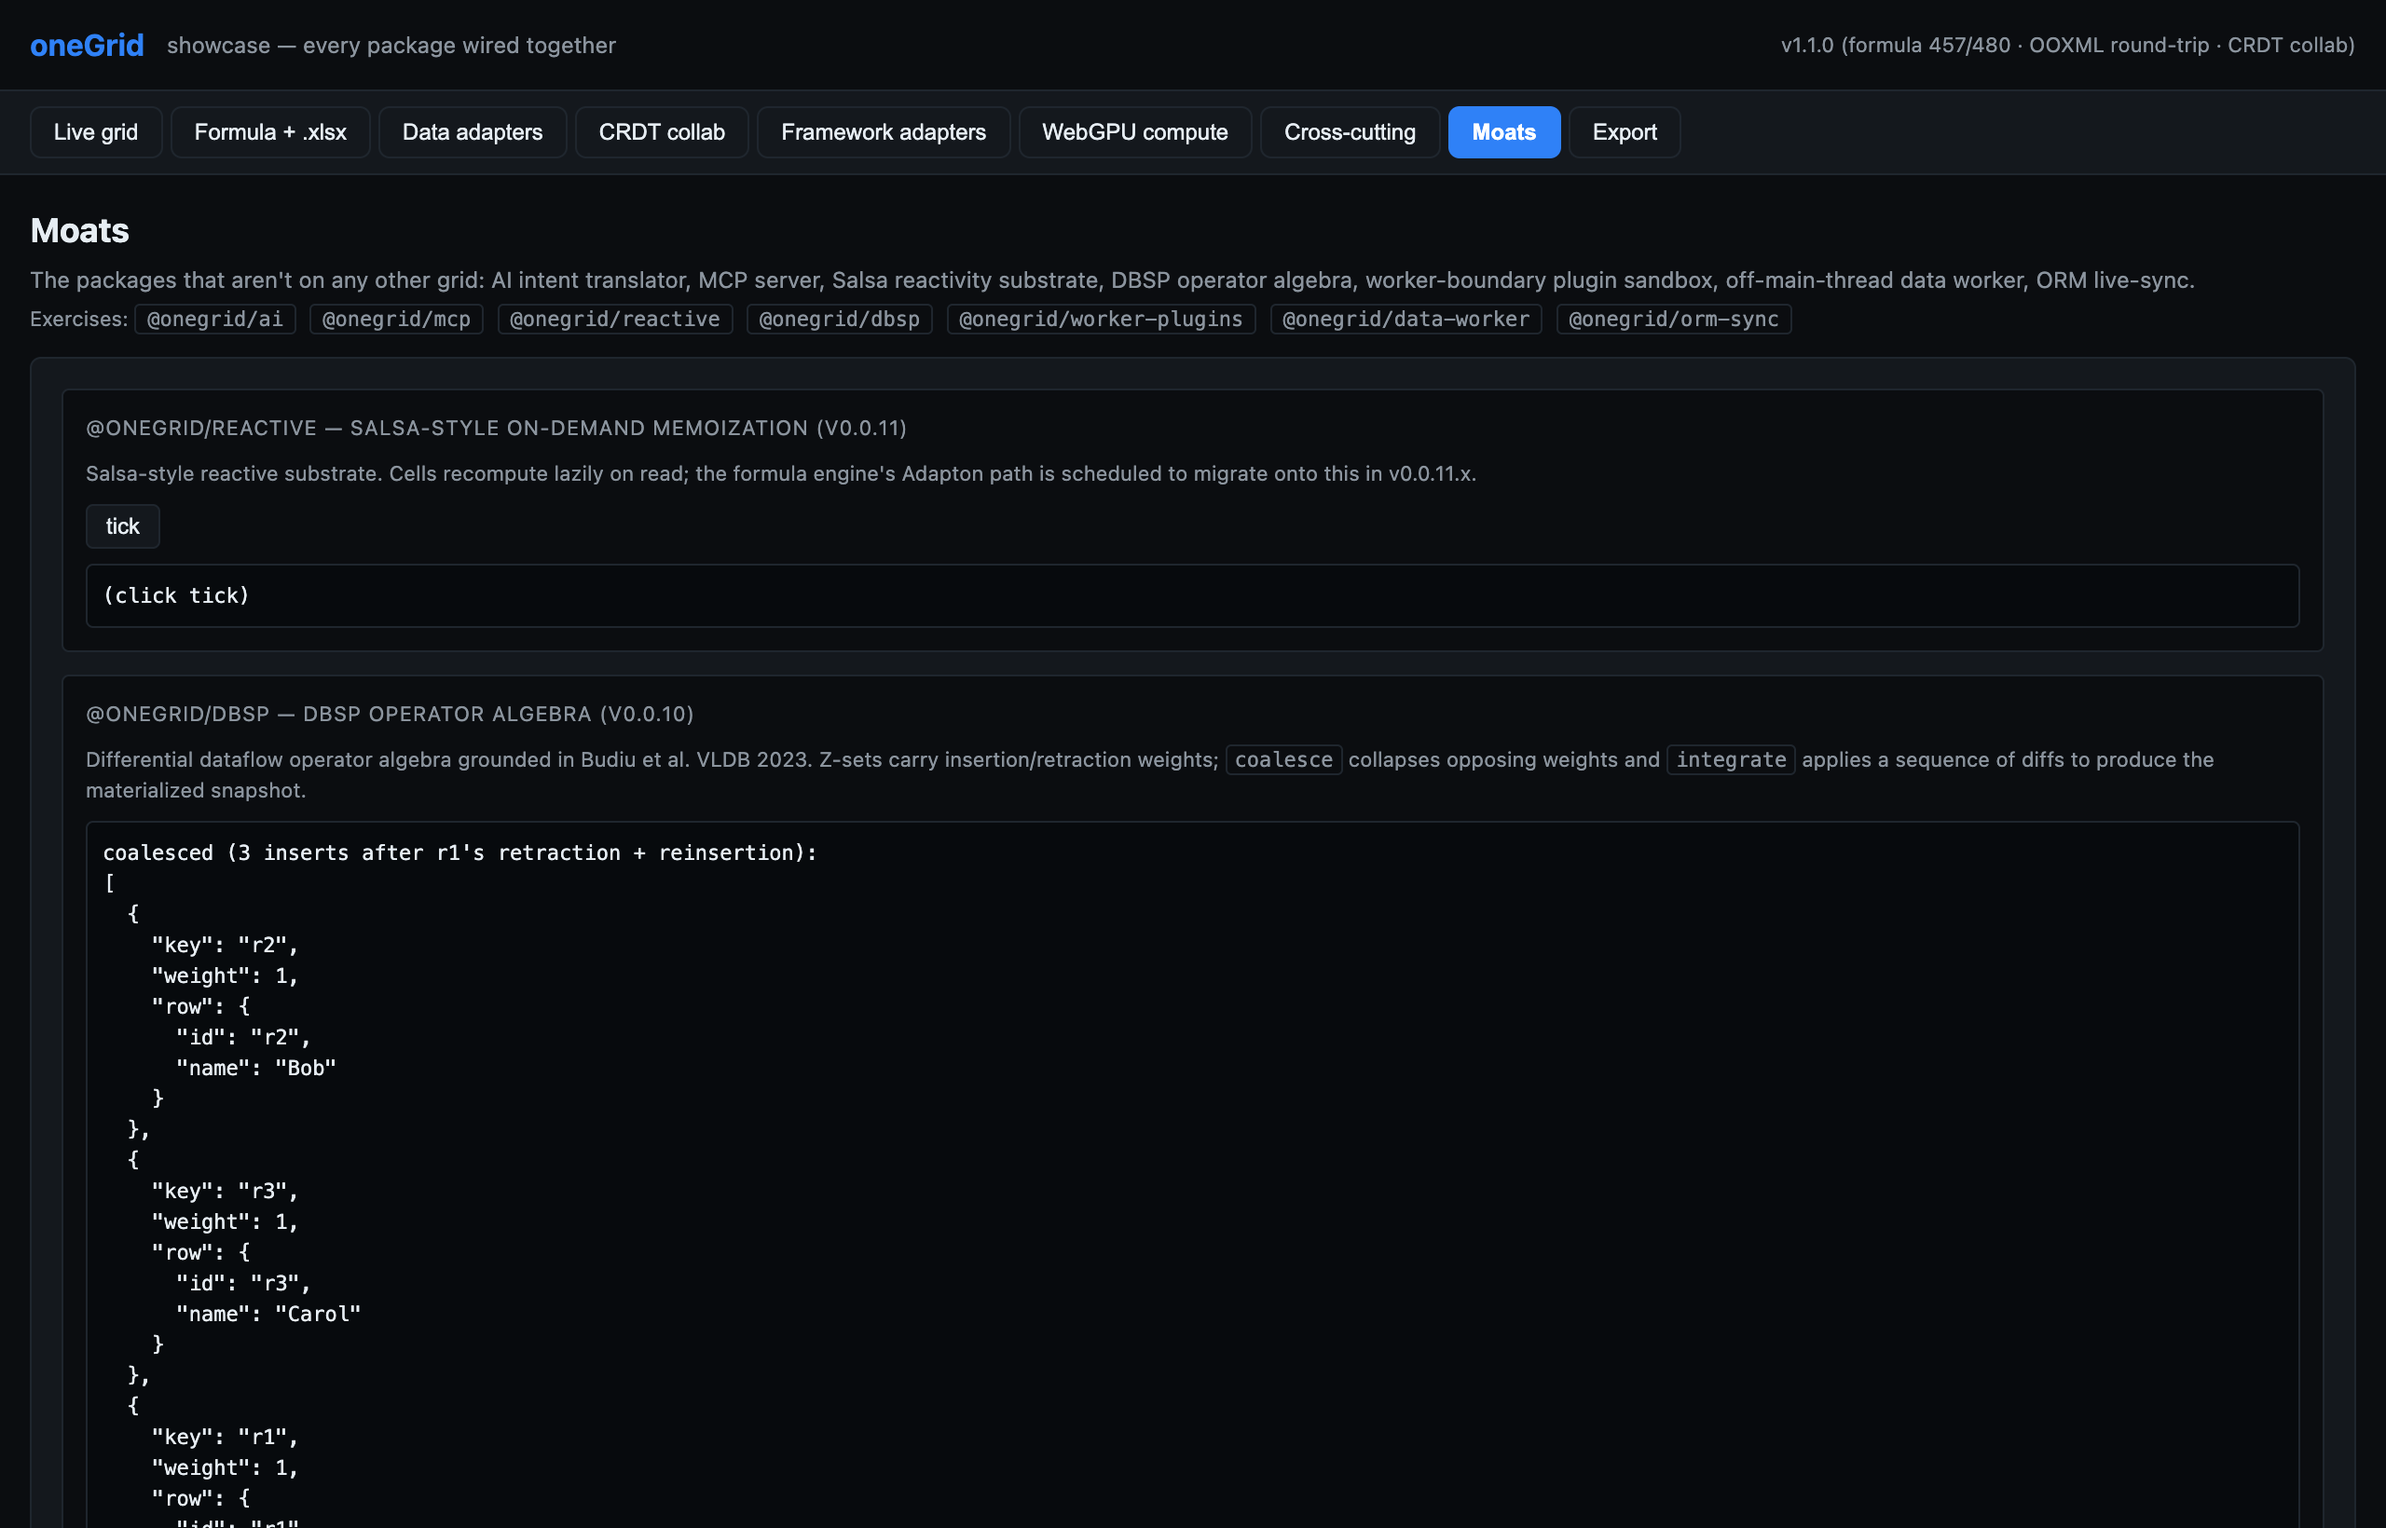
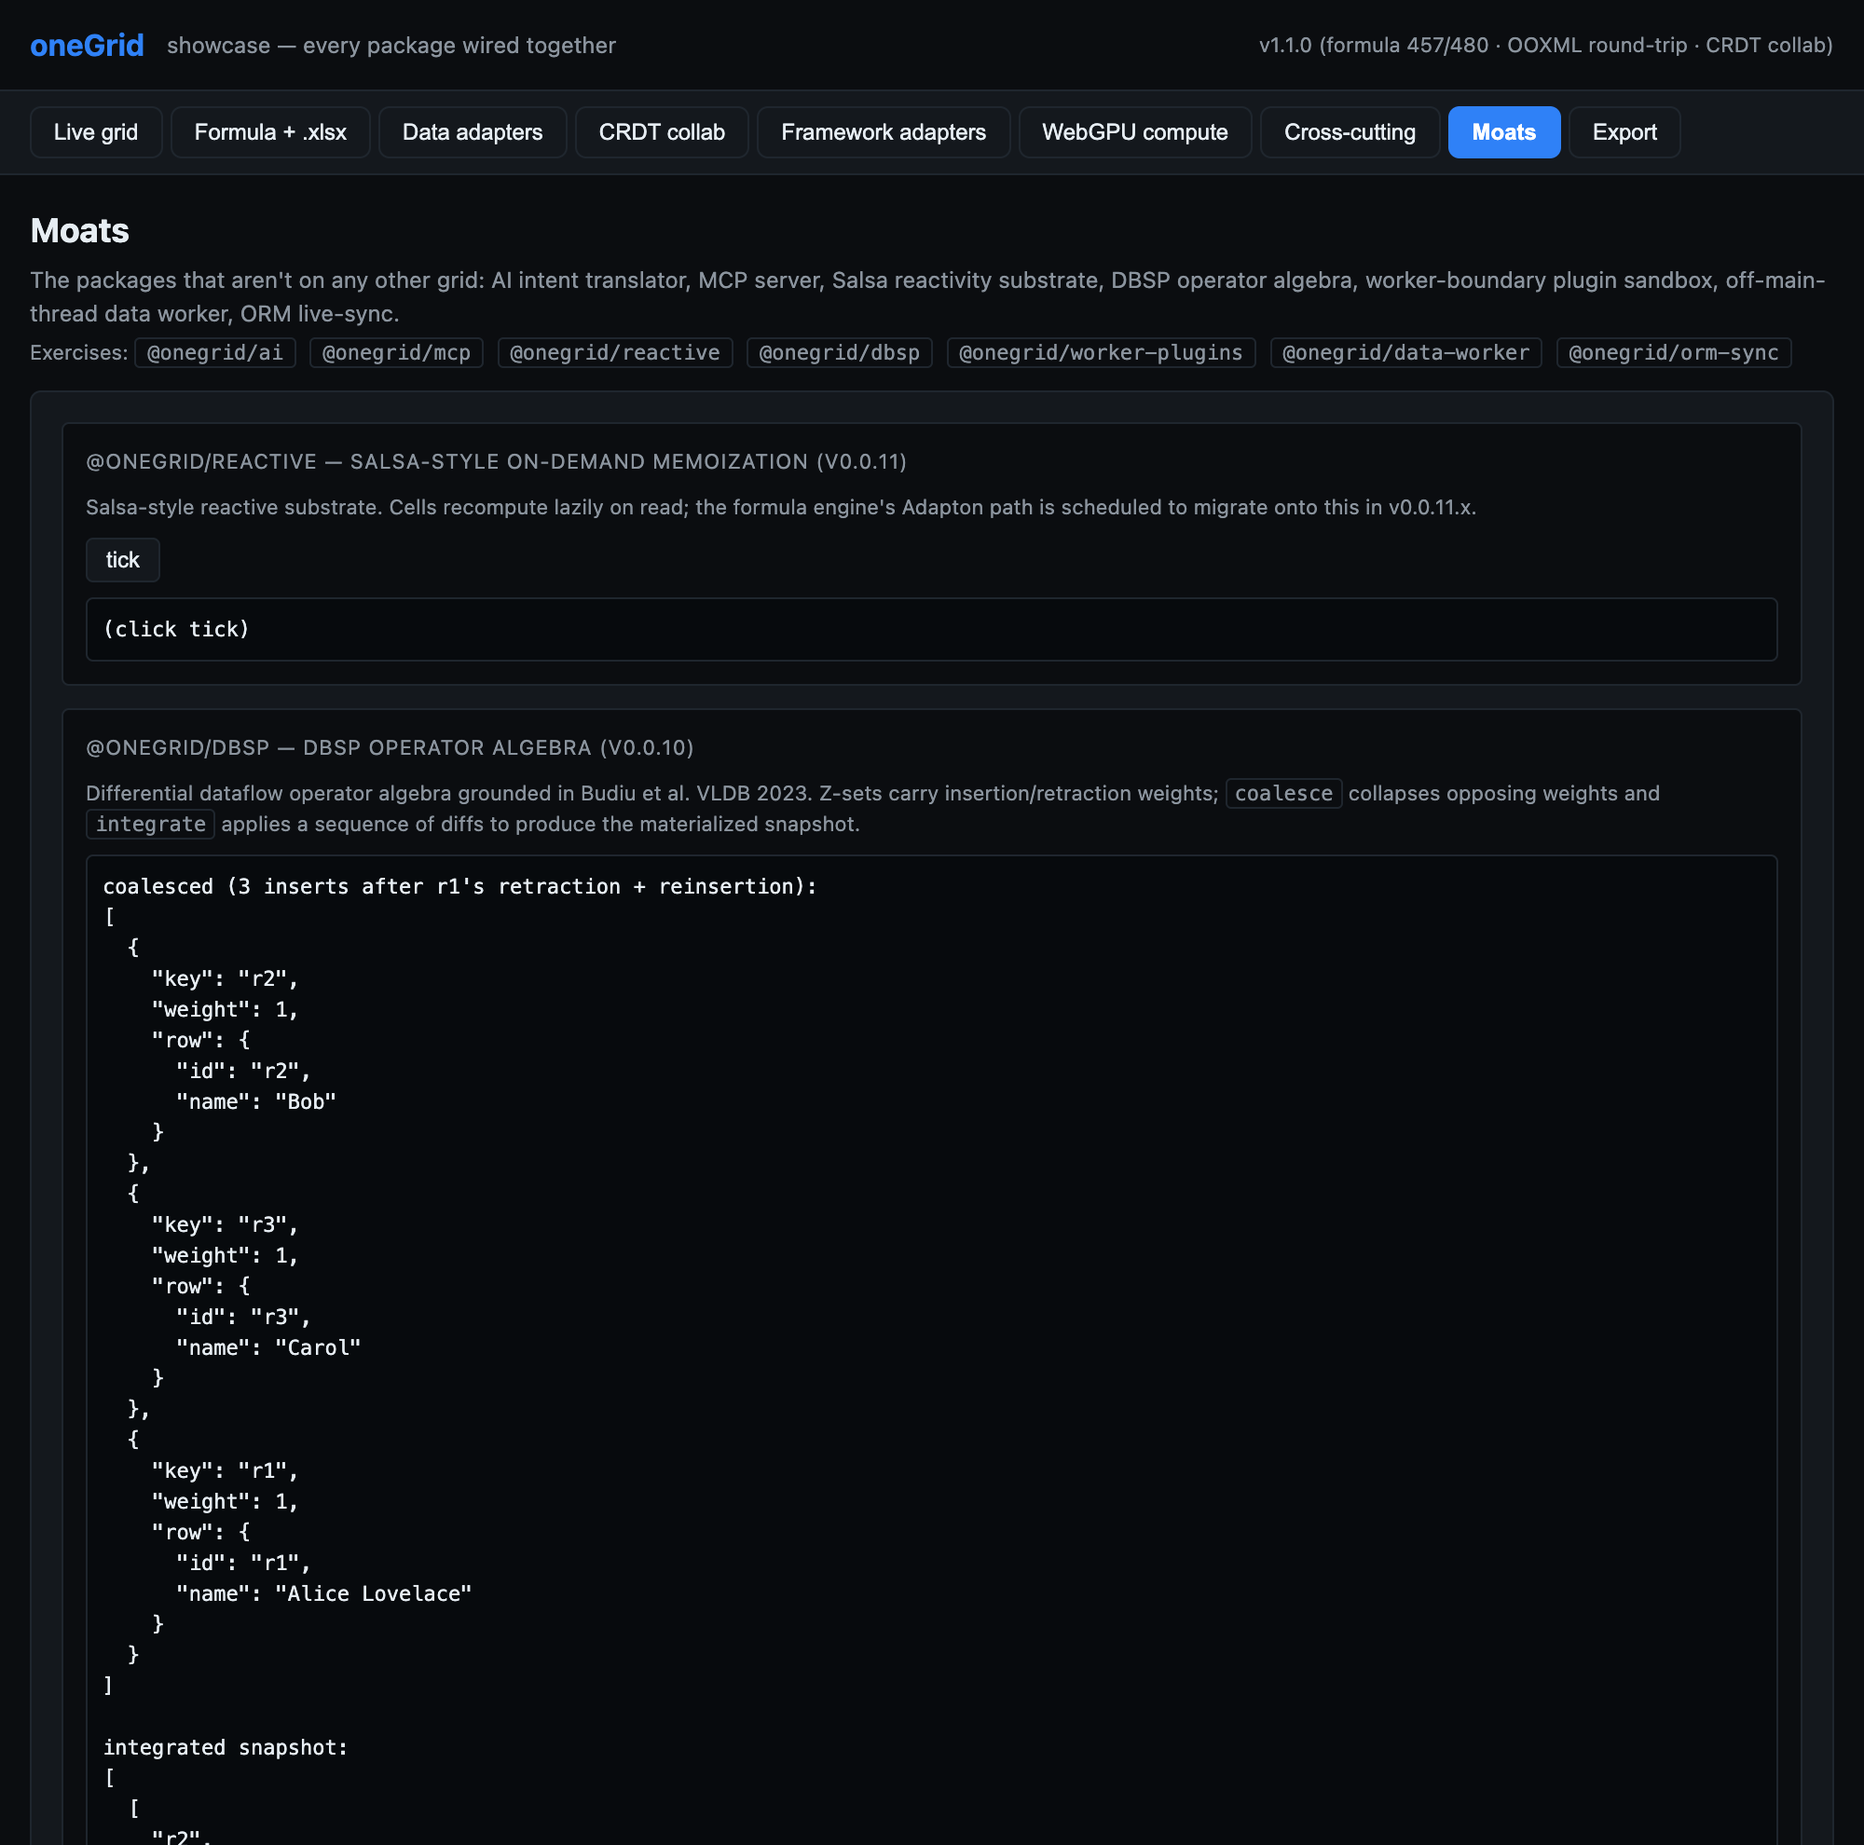
feat(showcase): host configs for Vercel + Netlify + Cloudflare; fix SheetJS bleed
Ships deploy targets so apps/showcase can flip from "exists locally" to
"hosted at a URL anyone can hit." Three host configs included; pick one
or all three. All set immutable cache on /assets/* and the same
baseline security headers.

Bundle hygiene:
- vite.config.ts marks `xlsx` (the SheetJS optional peer dep that comes
  in via @onegrid/export's non-clean-room fallback path) as `external`.
  Removes a 430KB JS chunk from the production build that the showcase
  never used — the Export tab uses @onegrid/xlsx's clean-room
  writeWorkbook, not SheetJS. If a hypothetical adopter ever hits the
  SheetJS path it throws at runtime, which is the right failure mode.
- Production build before: 2 chunks (index 2.7MB + xlsx 430KB).
- Production build after: 1 chunk (index 2.7MB / 722KB gz).

Bug fix surfaced by the production build:
- 07-moats.tsx referenced @onegrid/ai's `translateIntent` which doesn't
  exist (the real export is `interpretIntent` + `buildPrompt`). Vite's
  static analysis caught this where my earlier dev-mode `import * as ai`
  hid it. Rewrote the AI section to render the `buildPrompt` output —
  `interpretIntent` needs an adopter-supplied LlmClient so we can't
  exercise the full path from the showcase without a key.

ROADMAP: updated the 🔴 "Live demo URL" line to reflect that hosting
configs ship now; flips to 🟢 once a URL goes live.

Verified end-to-end in real Chrome against `vite preview` (production
[…]

diff --git a/apps/showcase/src/tabs/07-moats.tsx b/apps/showcase/src/tabs/07-moats.tsx
@@ -112,15 +112,25 @@ ${JSON.stringify(result.integrated, null, 2)}`}
 
 function AiSection(): JSX.Element {
   const [nl, setNl] = useState('show rows where status is active and revenue > 1000');
-  const result = useMemo(() => {
-    const translate = (ai as { translateIntent?: unknown }).translateIntent;
-    if (typeof translate !== 'function') {
-      return { error: 'translateIntent not in current build' };
+  const promptPreview = useMemo(() => {
+    if (typeof (ai as { buildPrompt?: unknown }).buildPrompt !== 'function') {
+      return '(buildPrompt not in current build)';
     }
     try {
-      return (translate as (s: string) => unknown)(nl);
+      const { buildPrompt } = ai as unknown as {
+        buildPrompt: (input: { instruction: string; columns: Array<{ id: string }>; rows?: ReadonlyArray<unknown> }) => string;
+      };
+      return buildPrompt({
+        instruction: nl,
+        columns: [
+          { id: 'id' },
+          { id: 'name' },
+          { id: 'status' },
+          { id: 'revenue' },
+        ],
+      });
     } catch (err) {
-      return { error: err instanceof Error ? err.message : String(err) };
+      return err instanceof Error ? err.message : String(err);
     }
   }, [nl]);
 
@@ -141,7 +151,13 @@ function AiSection(): JSX.Element {
           marginBottom: 8,
         }}
       />
-      <Output>{JSON.stringify(result, null, 2)}</Output>
+      <div style={{ fontSize: 11, color: 'var(--muted)', marginBottom: 8 }}>
+        <Mono>buildPrompt</Mono> assembles the LLM input; the live
+        interpretation step (<Mono>interpretIntent</Mono>) needs an
+        adopter-supplied <Mono>LlmClient</Mono>, so the showcase only
+        renders the prompt half.
+      </div>
+      <Output>{promptPreview}</Output>
     </Card>
   );
 }

diff --git a/apps/showcase/vite.config.ts b/apps/showcase/vite.config.ts
@@ -4,8 +4,24 @@ import react from '@vitejs/plugin-react';
 export default defineConfig({
   plugins: [react()],
   server: { port: 5174, strictPort: true },
-  build: { sourcemap: true },
+  build: {
+    sourcemap: true,
+    rollupOptions: {
+      // `@onegrid/export` has an optional peer dep on SheetJS (`xlsx`) for
+      // its non-clean-room fallback path. The showcase only ever uses the
+      // clean-room `@onegrid/xlsx` writer, so we keep SheetJS out of the
+      // bundle. If a tab ever hits the SheetJS path it will throw at
+      // runtime — that's a louder failure than silently shipping 430KB
+      // of dead code.
+      external: ['xlsx'],
+      output: {
+        // Provide a no-op resolution so the dynamic import doesn't blow
+        // up at module-graph time.
+        globals: { xlsx: 'undefined' },
+      },
+    },
+  },
   optimizeDeps: {
-    exclude: ['@duckdb/duckdb-wasm'],
+    exclude: ['@duckdb/duckdb-wasm', 'xlsx'],
   },
 });

diff --git a/apps/showcase/README.md b/apps/showcase/README.md
@@ -43,6 +43,18 @@ The grid in tab 1 receives:
 
 …and the formula bar evaluates against the same `RowSource` through a `CellResolver` that maps `A1` notation to grid cells. That's the entire integration story — small contracts (`ColumnDef`, `RowSource`, `CellResolver`, `BlockRequest`, `CdcAdapter`, `PresenceBridge`) compose without ceremony.
 
+## Deploy
+
+The showcase is a pure-static Vite build — `pnpm --filter @onegrid/showcase build` emits `apps/showcase/dist/` (single HTML + one JS chunk + sourcemap, ~2.7 MB / 720 KB gz) that any static host can serve. Three host configs ship with the package:
+
+- **Vercel** — [`apps/showcase/vercel.json`](./vercel.json). Point a Vercel project at the repo root, set the project root to `apps/showcase`. Vercel auto-detects Vite and runs the monorepo-aware `pnpm install` + filtered build from the config.
+- **Netlify** — [`apps/showcase/netlify.toml`](./netlify.toml). Point a Netlify site at `apps/showcase`. The `[build]` block runs the same workspace-filtered build.
+- **Cloudflare Pages** — [`apps/showcase/wrangler.toml`](./wrangler.toml). Configure the Pages project with build command `cd ../.. && pnpm --filter @onegrid/showcase build` and output `dist`.
+
+All three configs set the same `Cache-Control: max-age=31536000, immutable` on `/assets/*` (Vite emits content-hashed filenames) and the same baseline security headers (`X-Content-Type-Options`, `X-Frame-Options`, `Referrer-Policy`).
+
+**SheetJS exclusion.** `@onegrid/export` carries an optional peer dep on SheetJS (`xlsx`) for its non-clean-room fallback. The showcase only uses `@onegrid/xlsx`'s clean-room `writeWorkbook`, so `xlsx` is marked `external` in [`vite.config.ts`](./vite.config.ts) — it stays out of the bundle. If a hypothetical adopter ever hits the SheetJS path through `@onegrid/export`, the dynamic import throws a clear error rather than silently shipping 430 KB of dead code.
+
 ## What this app is NOT
 
 - **Not a production starter.** Routes / auth / state management / error boundaries are deliberately minimal.

diff --git a/ROADMAP.md b/ROADMAP.md
@@ -1003,7 +1003,7 @@ or external services. Each is a fix-it batch, not a feature milestone.
 **Distribution + reachability**
 - 🔴 **Publish to npm** — every dep is currently `workspace:*`;
   nothing on the registry. Blocks every external adopter.
-- 🔴 **Live demo URL** — `apps/playground` and the broader [`apps/showcase`](./apps/showcase) (every-package-wired-together demo, 2026-06-02 `0244521`) are local-only; no hosted preview yet.
+- 🔴 **Live demo URL** — `apps/playground` and the broader [`apps/showcase`](./apps/showcase) (every-package-wired-together demo, `0244521`) are local-only; no hosted preview yet. Vercel / Netlify / Cloudflare Pages configs ship with the showcase as of 2026-06-02 (`61af59e`'s follow-up); flips to 🟢 once a hosted URL exists.
 - 🔴 **Docs site** — `docs/*.md` are markdown only; no rendered site
   (`docs.onegrid.dev` or similar via Astro / Nextra / VitePress).
 - **CDN / unpkg bundle** — standalone `<script>`-tag distribution.
